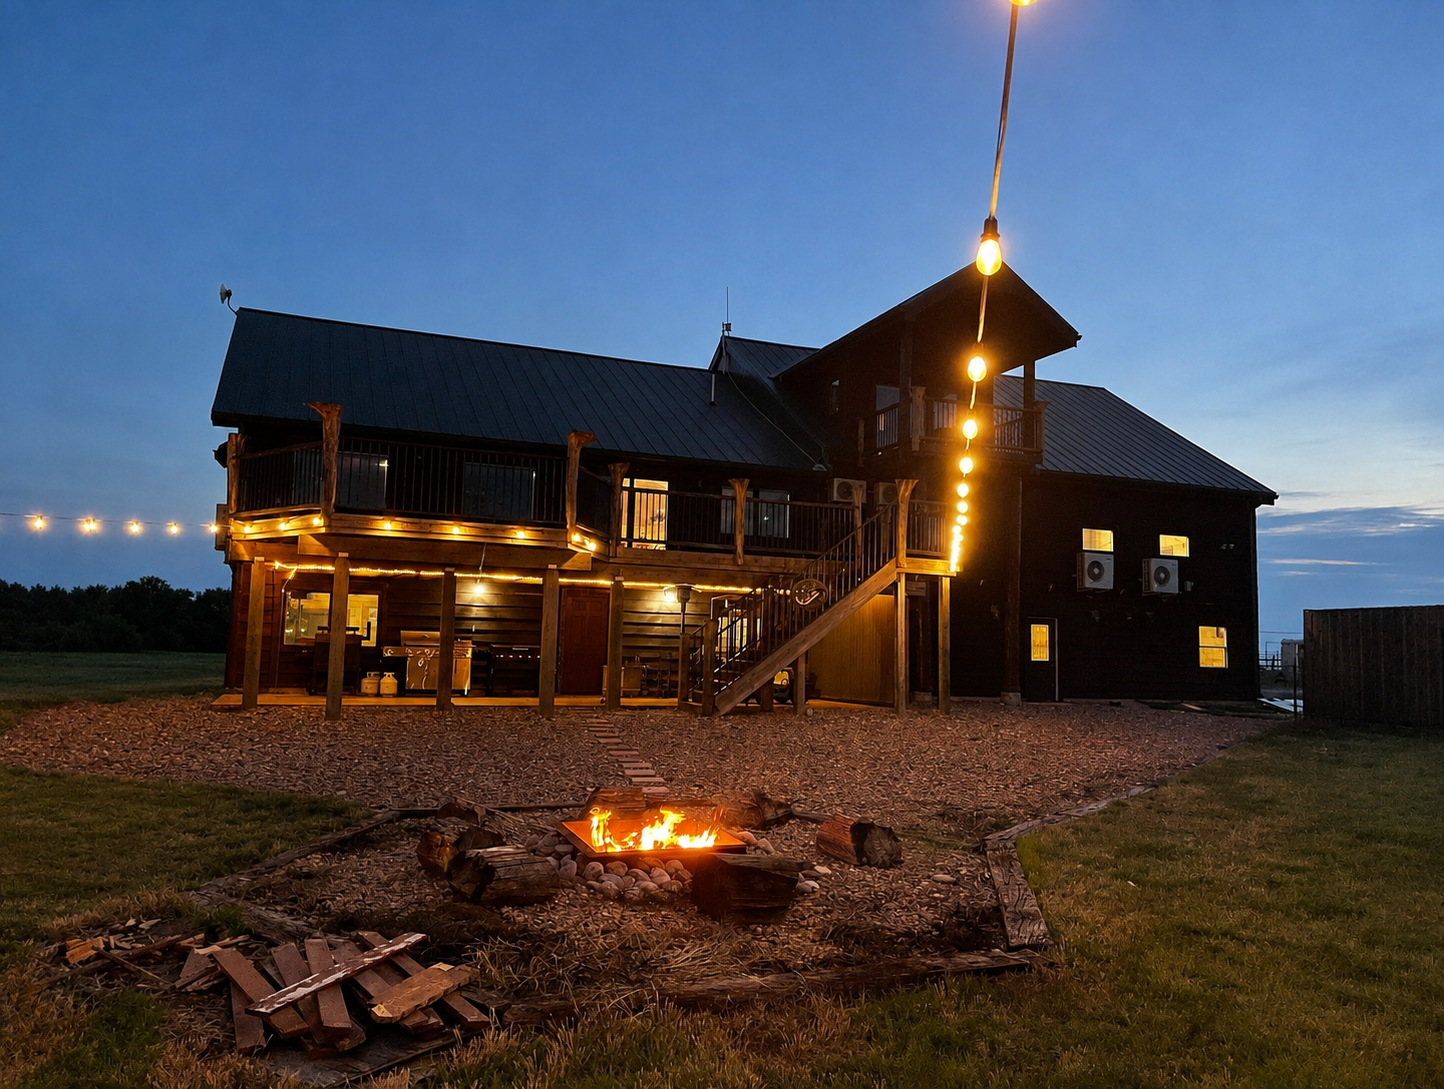
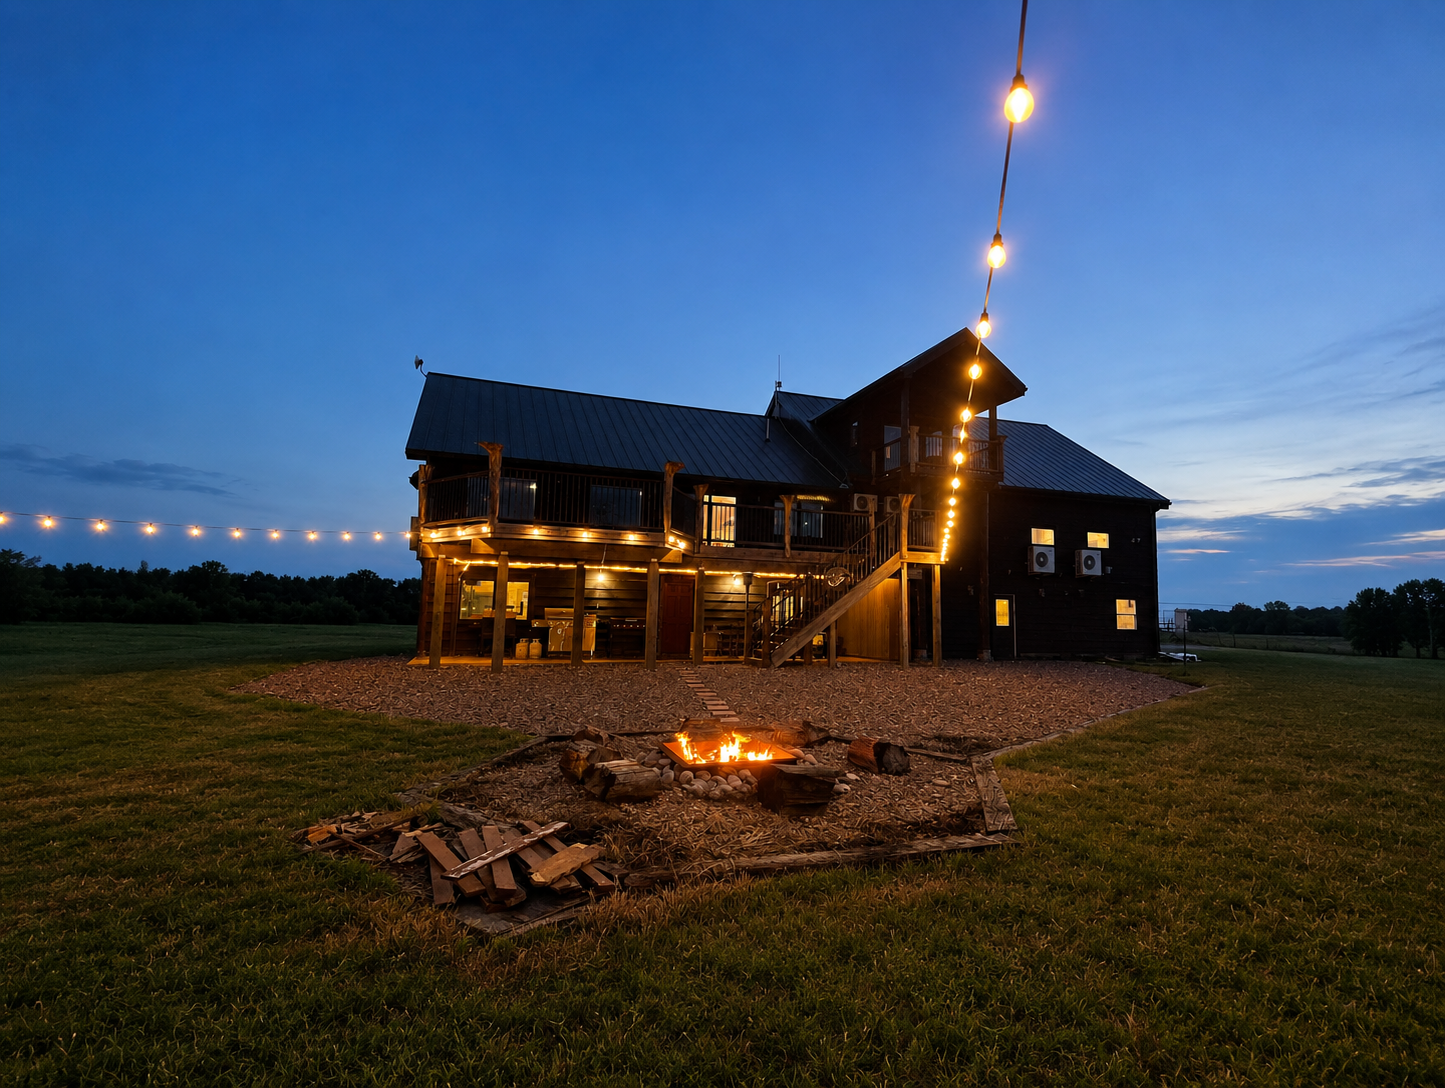
Replace story photo with House at Night 2 (zoomed out)

diff --git a/v2/index.html b/v2/index.html
@@ -239,7 +239,7 @@
         <a href="/about/" class="btn btn-dark">Read Our Full Story</a>
       </div>
       <div class="v2-story-img">
-        <img src="/images/IMG_3977-scaled.jpg" alt="Logan Schrag at Diamond Springs Ranch" loading="lazy">
+        <img src="/images/the-house-at-night.jpg" alt="The Lodge at Diamond Springs Ranch" loading="lazy">
         
       </div>
     </div>
